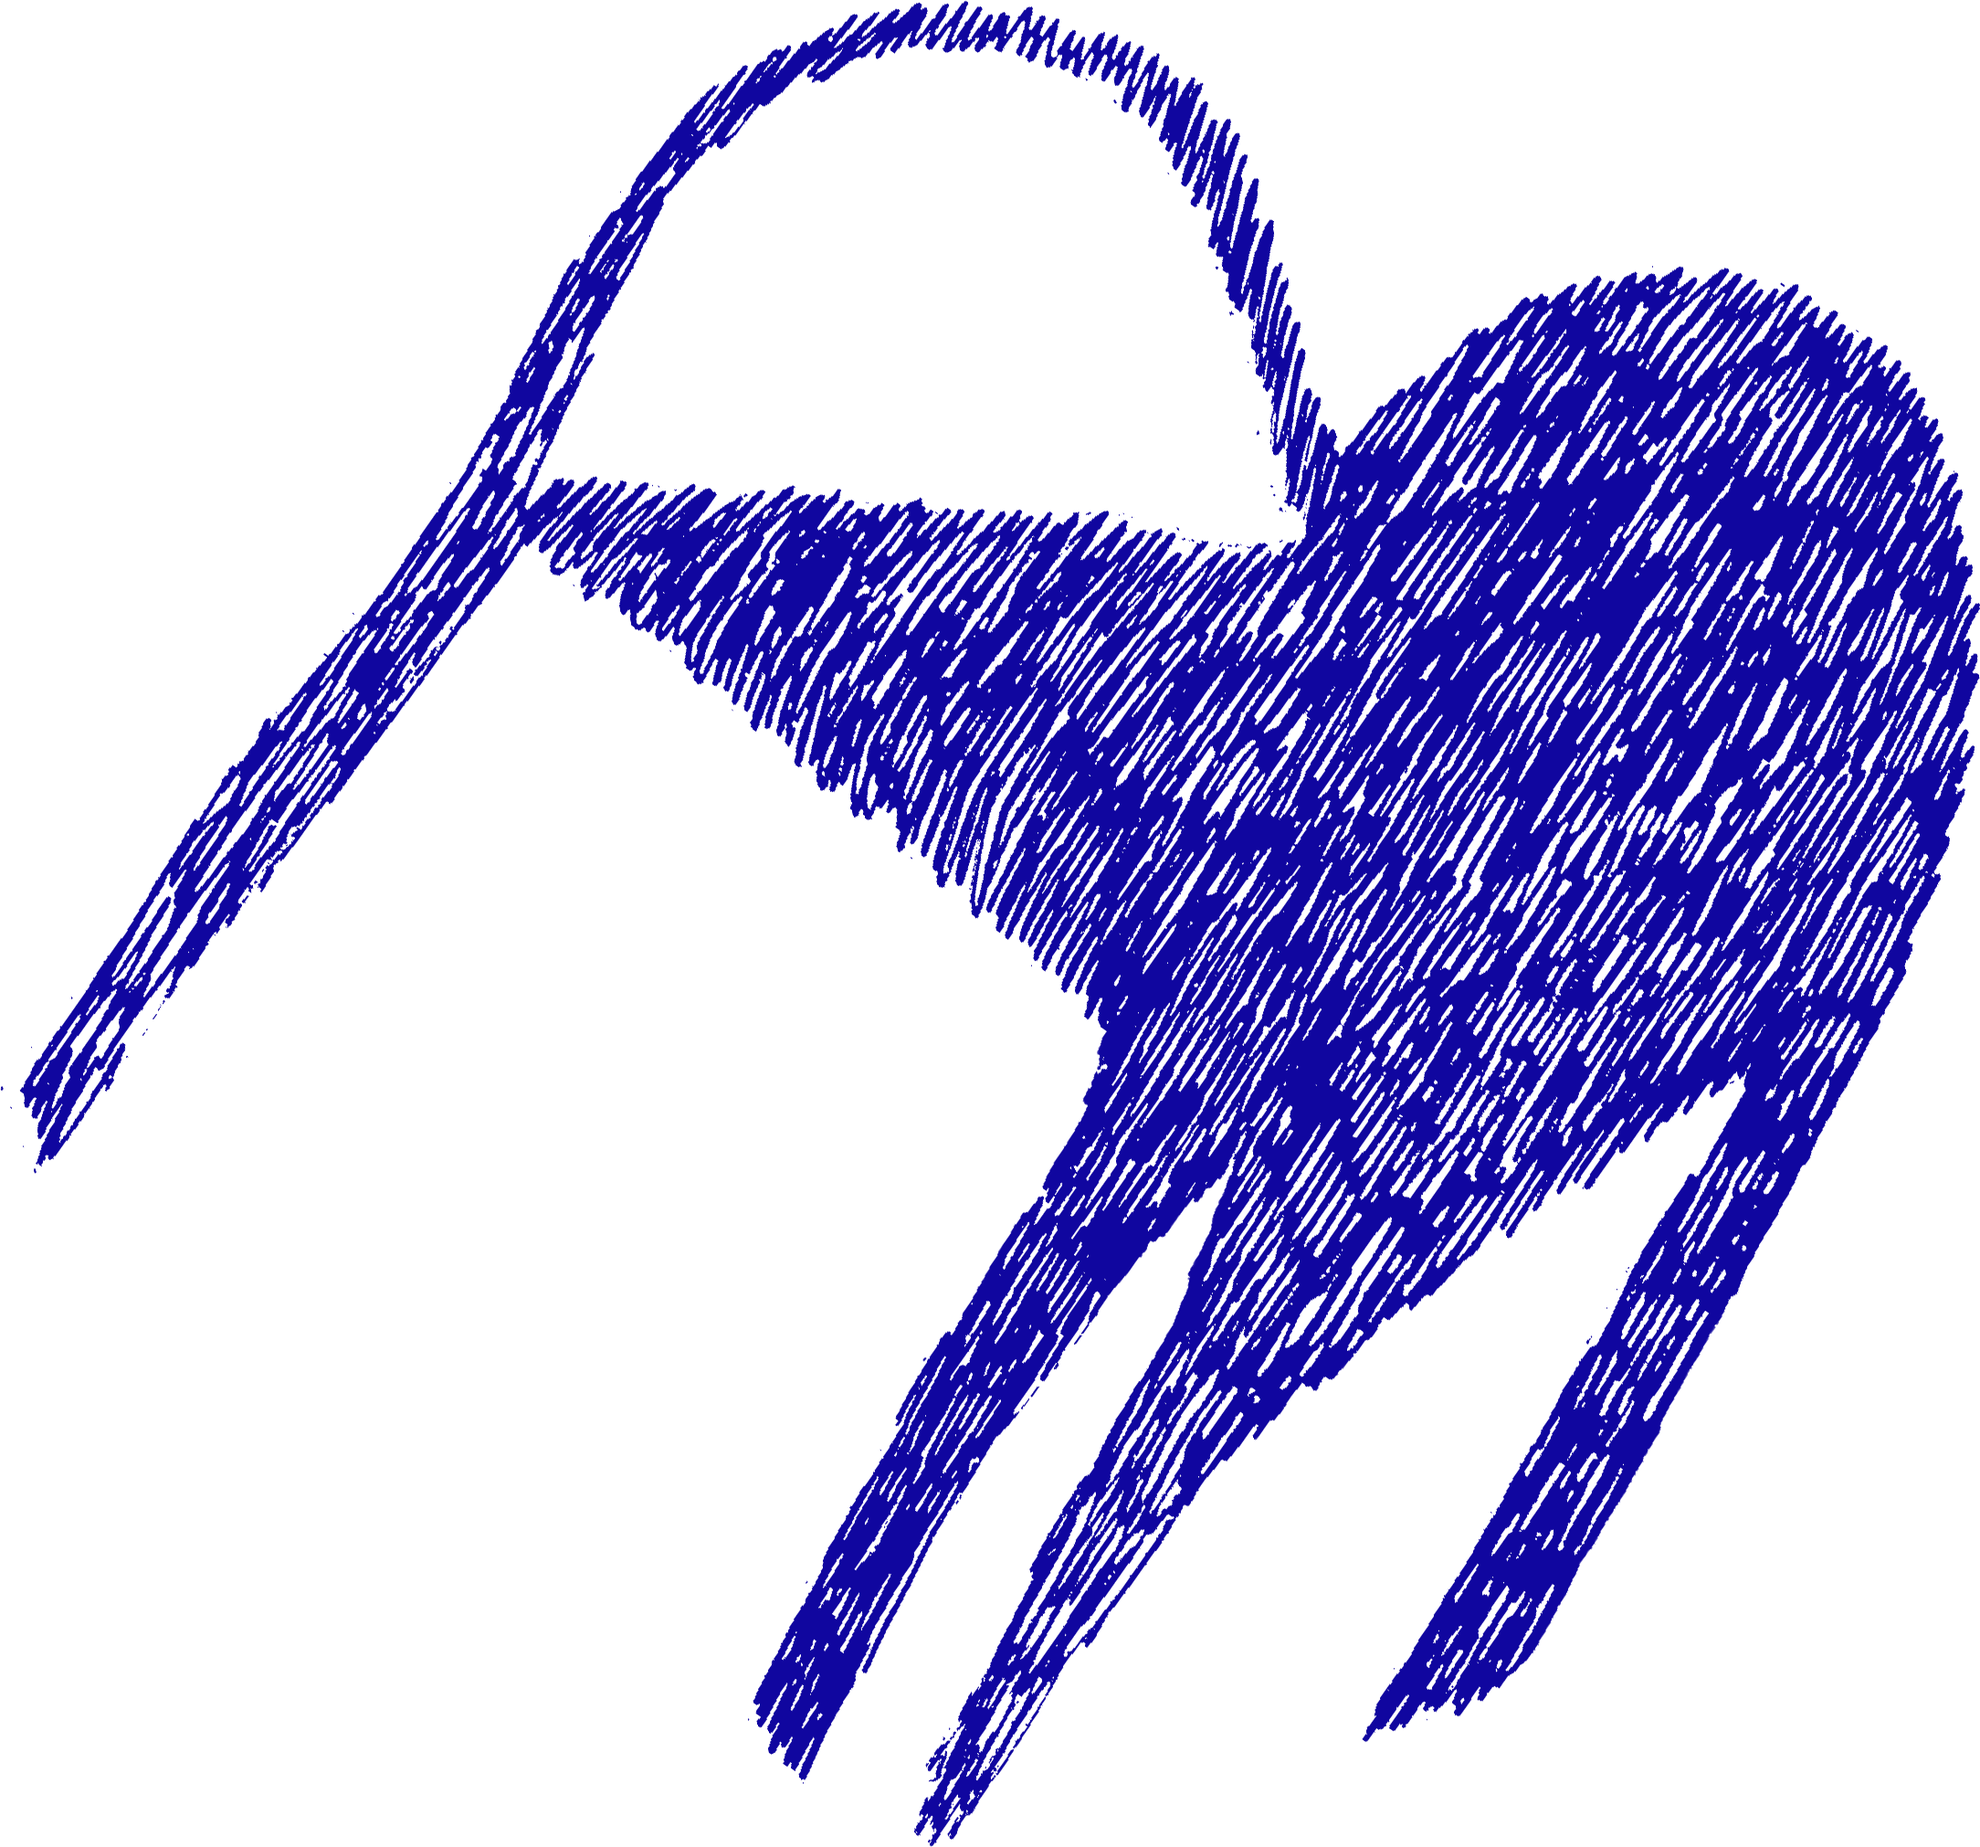
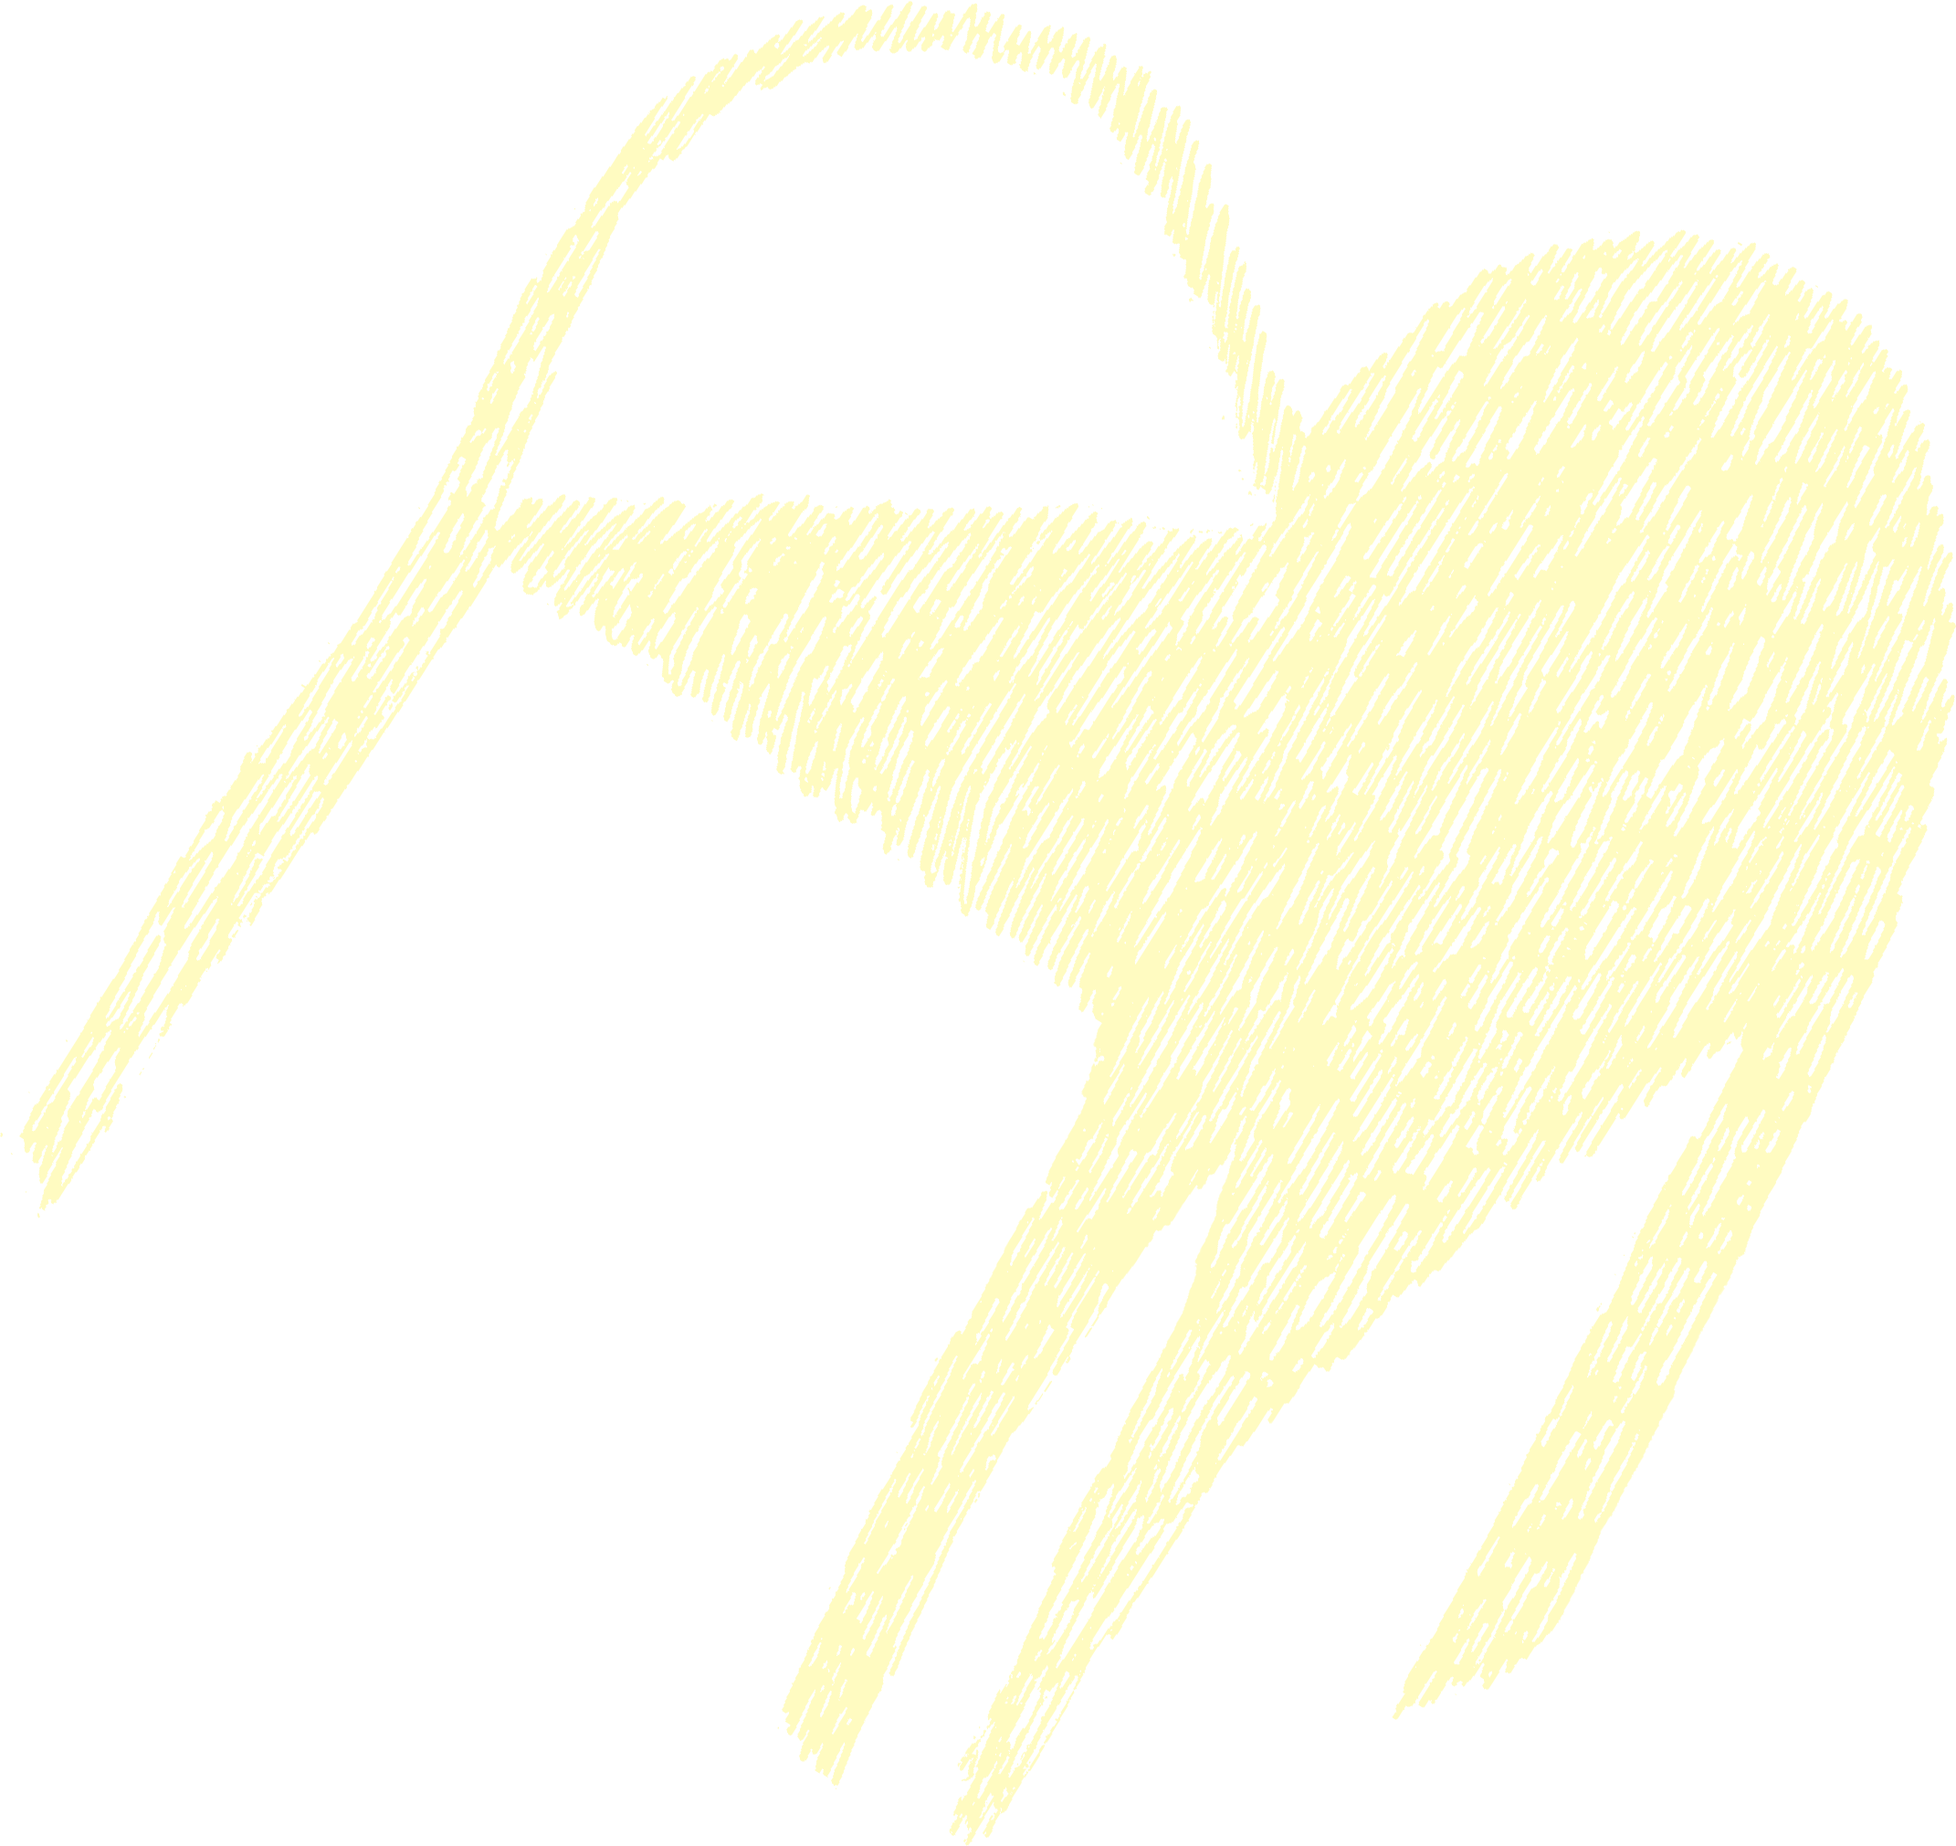
Fixes

diff --git a/landing/src/routes/+layout.svelte b/landing/src/routes/+layout.svelte
@@ -128,7 +128,7 @@ const generateBlob = async (canvas) => {
 </script>
 
 <svelte:head>
-  {#if data.color1 === '#10069F' && data.color2 === '#BA5826'}
+  {#if data.color1 === '#FFFBC1' && data.color2 === '#BA5826'}
     <link rel="icon" type="image/png" href="/favicon1/favicon-96x96.png" sizes="96x96" />
     <link rel="icon" type="image/svg+xml" href="/favicon1/favicon.svg" />
     <link rel="shortcut icon" href="/favicon1/favicon.ico" />
@@ -224,7 +224,7 @@ class:inverted={$page.url.pathname !== '/'}
           <a class="rsvp btn active" class:invisible={!loaded} href="/rsvp" class:info={$page.url.pathname === '/info'} class:draw={drawable}
           style="top: unset; display:{innerWidth > 900 && $page.url.pathname === '/' ? 'none' : ''}">RSVP</a>
           <div bind:clientHeight={ctaHeight}>
-            <p class="text-xs">Vuoi disegnare tu? Clicca su “Disegna” e entra nella modalità disegno. Tieni premuto per unire i puntini. Una volta salvato, il disegno ti verrà inviato insieme alla conferma di avvenuta ricezione dell’RSVP.</p>
+            <p class="text-xs">Vuoi disegnare tu? Clicca qui sotto e entra nella modalità disegno. Tieni premuto per unire i puntini. Una volta salvato, il disegno ti verrà inviato insieme alla conferma di avvenuta ricezione dell’RSVP.</p>
             <button class="btn btn-mobile" onclick={() => drawable = true}>Disegna</button>
           </div>
         </div>
@@ -255,7 +255,7 @@ class:inverted={$page.url.pathname !== '/'}
             </button>
             {/if}
             {#if drawingSaved}
-              <p class="alert btn">Salvato! Vai all'RSVP, o clicca su “ricomincia” o “sovrascrivi” per ricominciare o sovrascrivere il disegno.</p>
+              <p class="alert btn">Salvato, Vai all'RSVP! Per ricominciare o perfezionare il disegno, clicca su “ricomincia” o “sovrascrivi” dopo le modifiche.</p>
             {/if}
             <!-- <div class="controls">
               <label>
@@ -528,6 +528,7 @@ nav {
           transform: translate(-50%, -50%);
   text-align: center;
   z-index: 2;
+  border-radius: 1em;
 }
 :global(.alert.inverted) {
   color: var(--color1);
@@ -676,7 +677,7 @@ main {
     height: 100svh;
     padding: var(--gutter);
   }
-  .drawing-buttons.bottom {
+  .drawing-buttons.top {
     top: calc(var(--gutter)*2);
   }
   .drawing-buttons.bottom {
@@ -700,6 +701,9 @@ main {
   .rsvp.draw {
     width: auto;
     margin-left: var(--gutter);
+  }
+  :global(.alert) {
+    width: calc(100% - var(--gutter)*2);
   }
 }
 
@@ -775,6 +779,20 @@ footer a:hover {
   footer svg {
     fill: var(--color2);
     height: 2.5rem;
+  }
+  footer div:nth-child(3) {
+    flex-direction: column;
+    margin-top: 3em;
+    -webkit-box-pack: start;
+        -ms-flex-pack: start;
+            justify-content: flex-start;
+  }
+  footer div:nth-child(3)>div {
+    flex-direction: column;
+    row-gap: 0;
+    -webkit-box-pack: start;
+        -ms-flex-pack: start;
+            justify-content: flex-start;
   }
 }
 </style>

diff --git a/landing/src/routes/info/+page.svelte b/landing/src/routes/info/+page.svelte
@@ -15,7 +15,7 @@
     <p style="margin-top: 1em;">È per questo motivo che ho deciso di andarmene su Marte, un po' in segno di protesta e un po' per trovare un senso di pace. Ho bisogno di riscoprire la bellezza di poche cose fatte bene e che durano a lungo.</p>
     <p style="margin-top: 1em;">Vi chiedo un unico favore: tutte le mie cose sono a vostra disposizione e, prendendone possesso, eviterete di mettere al mondo altri oggetti e darete valore ai mobili del passato.</p>
     <p style="margin-top: 1em;">Edwin</p>
-    <p style="margin-top: calc(var(--gutter)*10); font-weight: 800; letter-spacing: 0.01em; font-style: italic;">About</p>
+    <p style="margin-top: calc(var(--gutter)*10); 0.01em; font-style: italic;">About</p>
     <p style="margin-top: 1em;">Edwin On Mars è una realtà multiforme che vuole far riscoprire il vero valore delle cose e invitare le persone a circondarsi di cose belle, nella concezione etica ed estetica del termine.</p>
     <p style="margin-top: 1em;">Attraverso eventi di varia natura, EOM diffonde un approccio alternativo al vivere contemporaneo, toccando i vari aspetti del quotidiano, dagli oggetti di cui ci circondiamo, a ciò che costruiamo, alle scelte che prendiamo tutti i giorni. Contrariamente a quanto ci siamo abituati a pensare, una scelta di vita ecologica non sempre comporta rinunce, sacrifici, privazioni. Al contrario, nonostante il prendersi cura (di sé, degli altri, del pianeta) sia solo una delle tante modalità attraverso cui possiamo agire, spesso si rivela essere la modalità che più eleva i risultati delle nostre azioni, non solo dal punto di vista etico ma anche estetico.</p>
     <p style="margin-top: 1em;">Per questo primo episodio, EOM parte proprio dalla casa, luogo emblematico della cura, in cui si formano abitudini e in cui si elaborano e si esprimono scelte di vita.</p>
@@ -23,7 +23,7 @@
 </section>
 <section id="info-collaborations" class="text-s">
   <div>
-    <h4 style="margin-bottom: 1em; font-weight: 800; letter-spacing: 0.01em; font-style: italic;">Collaborazioni</h4>
+    <h4 style="margin-bottom: 1em; font-style: italic;">Collaborazioni</h4>
     <div class="collaboration">
       <a target="_blank" href="https://www.instagram.com/circa.antwerp/" class="text-m">Circa Antwerp <sup>↗</sup></a>
       <p>Ceramiche</p>
@@ -42,7 +42,7 @@
     </div>
   </div>
   <div>
-    <h4 style="margin-bottom: 1em; font-weight: 800; letter-spacing: 0.01em; font-style: italic;">Rivenditori</h4>
+    <h4 style="margin-bottom: 1em; 0.01em; font-style: italic;">Rivenditori</h4>
     <a target="_blank" href="https://www.instagram.com/_9cento_/" class="text-m reseller">NoveCento <sup>↗</sup></a>
     <a target="_blank" href="https://www.instagram.com/capperidicasa__official/" class="text-m reseller">Capperi Di Casa <sup>↗</sup></a>
     <a target="_blank" href="https://www.instagram.com/casafika.it/" class="text-m reseller">Casafika <sup>↗</sup></a>

diff --git a/landing/src/routes/rsvp/+page.server.js b/landing/src/routes/rsvp/+page.server.js
@@ -95,7 +95,7 @@ export const actions = {
       });
 
       const daysText = selectedDays.length
-        ? `<p>Ti aspettiamo nei seguenti giorni e orari:</p><ul>${selectedDays.map(day => `<li>${day}</li>`).join('')}</ul>`
+        ? `<ul>${selectedDays.map(day => `<li>${day}</li>`).join('')}</ul>`
         : '<p>Non hai selezionato alcun giorno specifico.</p>';
 
       const mailToUser = {
@@ -105,6 +105,7 @@ export const actions = {
         text: `Thank you ${data.name} ${data.surname}! We received your RSVP`,
         html: `
           <p>Ciao ${data.name}! La tua registrazione è avvenuta con successo. Ti aspettiamo a casa di Edwin!</p>
+          <p>Hai prenotato nei seguenti giorni e orari:</p>
           ${daysText}
         `
       };
@@ -114,7 +115,8 @@ export const actions = {
         to: "hello@lucabunino.com",
         subject: `Edwin on Mars | RSVP from ${data.name} ${data.surname}`,
         text: `RSVP from: ${data.name} ${data.surname}, email: ${data.email}`,
-        html: `<p>RSVP from: ${data.name} ${data.surname}, <a href="mailto:${data.email}">${data.email}</a></p>`
+        html: `<p>RSVP from: ${data.name} ${data.surname}, <a href="mailto:${data.email}">${data.email}</a></p>
+        ${daysText}`
       };
 
       // Construct the Google Form link with selected days
@@ -127,7 +129,6 @@ export const actions = {
 
       const sendTasks = [
         fetch(googleFormLink),
-        sendEmail(mailToUser)
       ];
 
       const file = formData.get('file');
@@ -136,6 +137,7 @@ export const actions = {
         const stream = Readable.from(buffer);
 
         mailToEdwin.attachments = [{ filename: file.name, content: buffer }];
+        mailToUser.attachments = [{ filename: file.name, content: buffer }];
 
         const uploadTask = authorize()
           .then(authClient => uploadFile(authClient, file, stream))
@@ -143,8 +145,10 @@ export const actions = {
 
         sendTasks.push(uploadTask);
         sendTasks.push(sendEmail(mailToEdwin));
+        sendTasks.push(sendEmail(mailToUser));
       } else {
         sendTasks.push(sendEmail(mailToEdwin));
+        sendTasks.push(sendEmail(mailToUser));
       }
 
       await Promise.all(sendTasks);

diff --git a/landing/src/routes/rsvp/+page.svelte b/landing/src/routes/rsvp/+page.svelte
@@ -15,7 +15,7 @@ const canvaser = getCanvas();
 const handleEnhance = ({ formElement, formData, action, cancel }) => {
   if (canvaser.canvas) {
     console.log(canvaser.canvas);
-    formData.append('file', canvaser.canvas, 'placeholder.png');
+    formData.append('file', canvaser.canvas, 'drawing.png');
   }
   return async ({ result }) => {
     if (result.data.success) {
@@ -143,7 +143,7 @@ $effect(() => {
         {:else if formResponse?.success === false && !formResponse.empty}
           <p class="alert btn inverted text-xs form-response">Errore al momento dell’invio. Riprova.</p>
         {:else if isSubmitting}
-          <p class="alert btn inverted text-xs form-response">Invio in corso</p>
+          <p class="alert btn inverted text-xs form-response">Invio in corso. Ci vorrà qualche secondo!</p>
         {/if}
       </div>
       <div class="text-xs checkbox-container">

diff --git a/landing/src/routes/+layout.server.js b/landing/src/routes/+layout.server.js
@@ -2,7 +2,7 @@
 
 export const load = async () => {
   const colorPairs = [
-    ['#10069F', '#BA5826', '/drawings/1.svg', '/drawings/1-mobile.svg',
+    ['#FFFBC1', '#BA5826', '/drawings/1.svg', '/drawings/1-mobile.svg',
      '/img/chair.webp', 'max-width: 45vw; max-height: 70vh; bottom: var(--gutter); right: 10vw',
      '/img/chair-mobile.webp','max-width: 90vw; max-height: 50vh; top: 45%; left: 50%; transform: translate(-50%, -50%)'],
     ['#10069F', '#FFFBC1', '/drawings/2.svg', '/drawings/2-mobile.svg',
